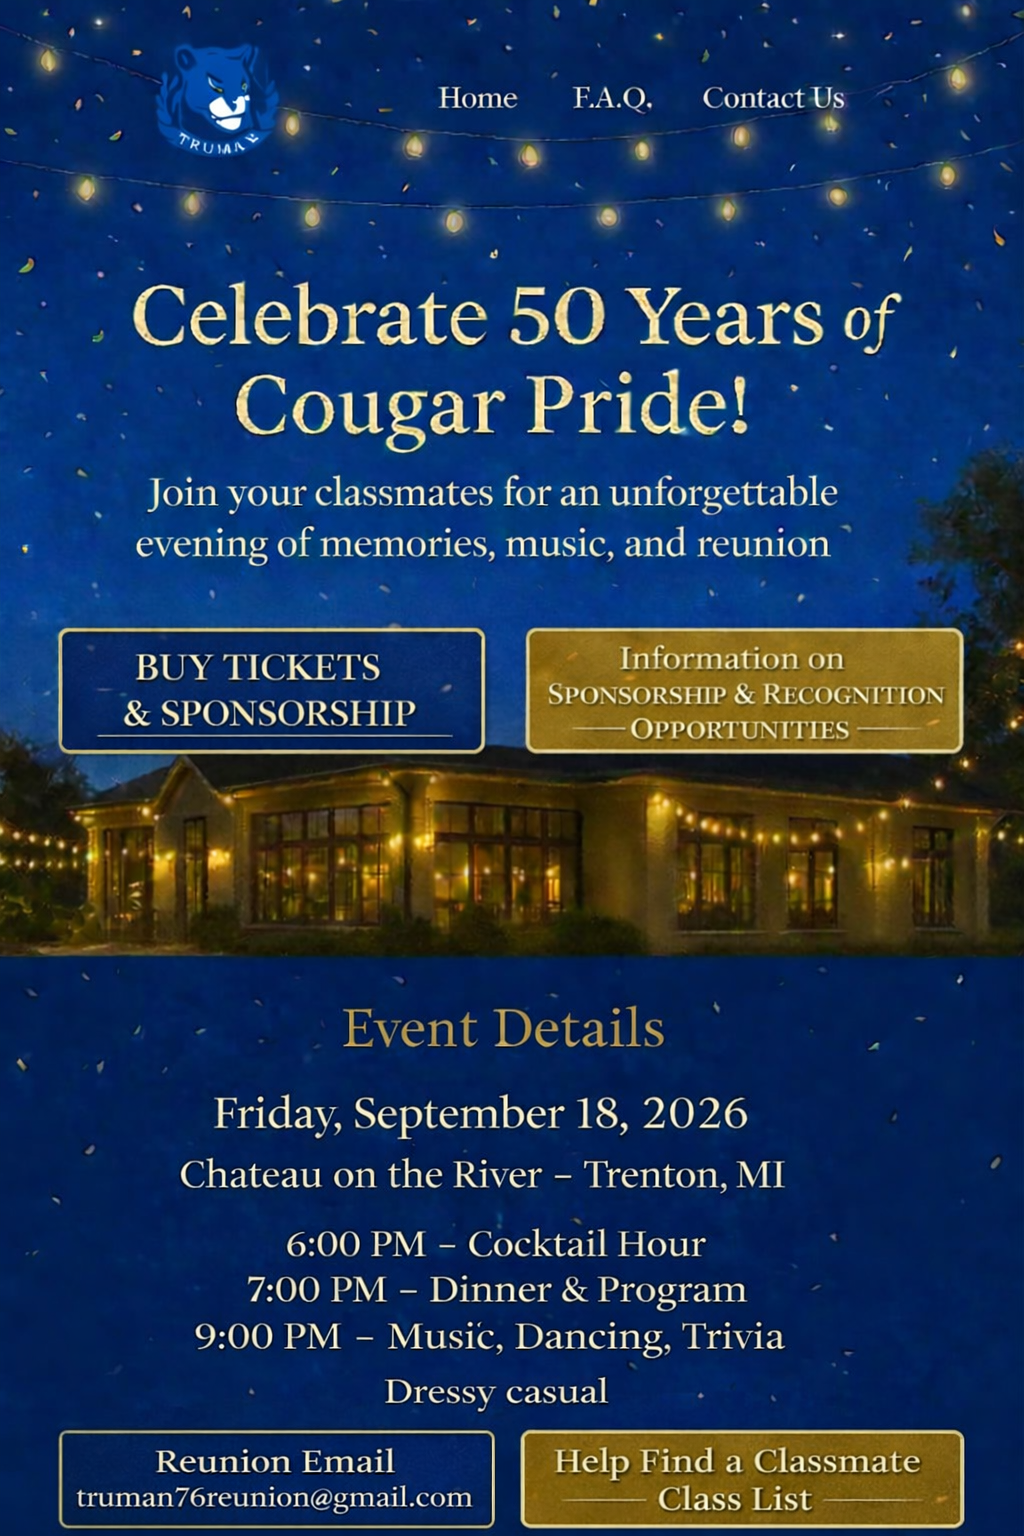
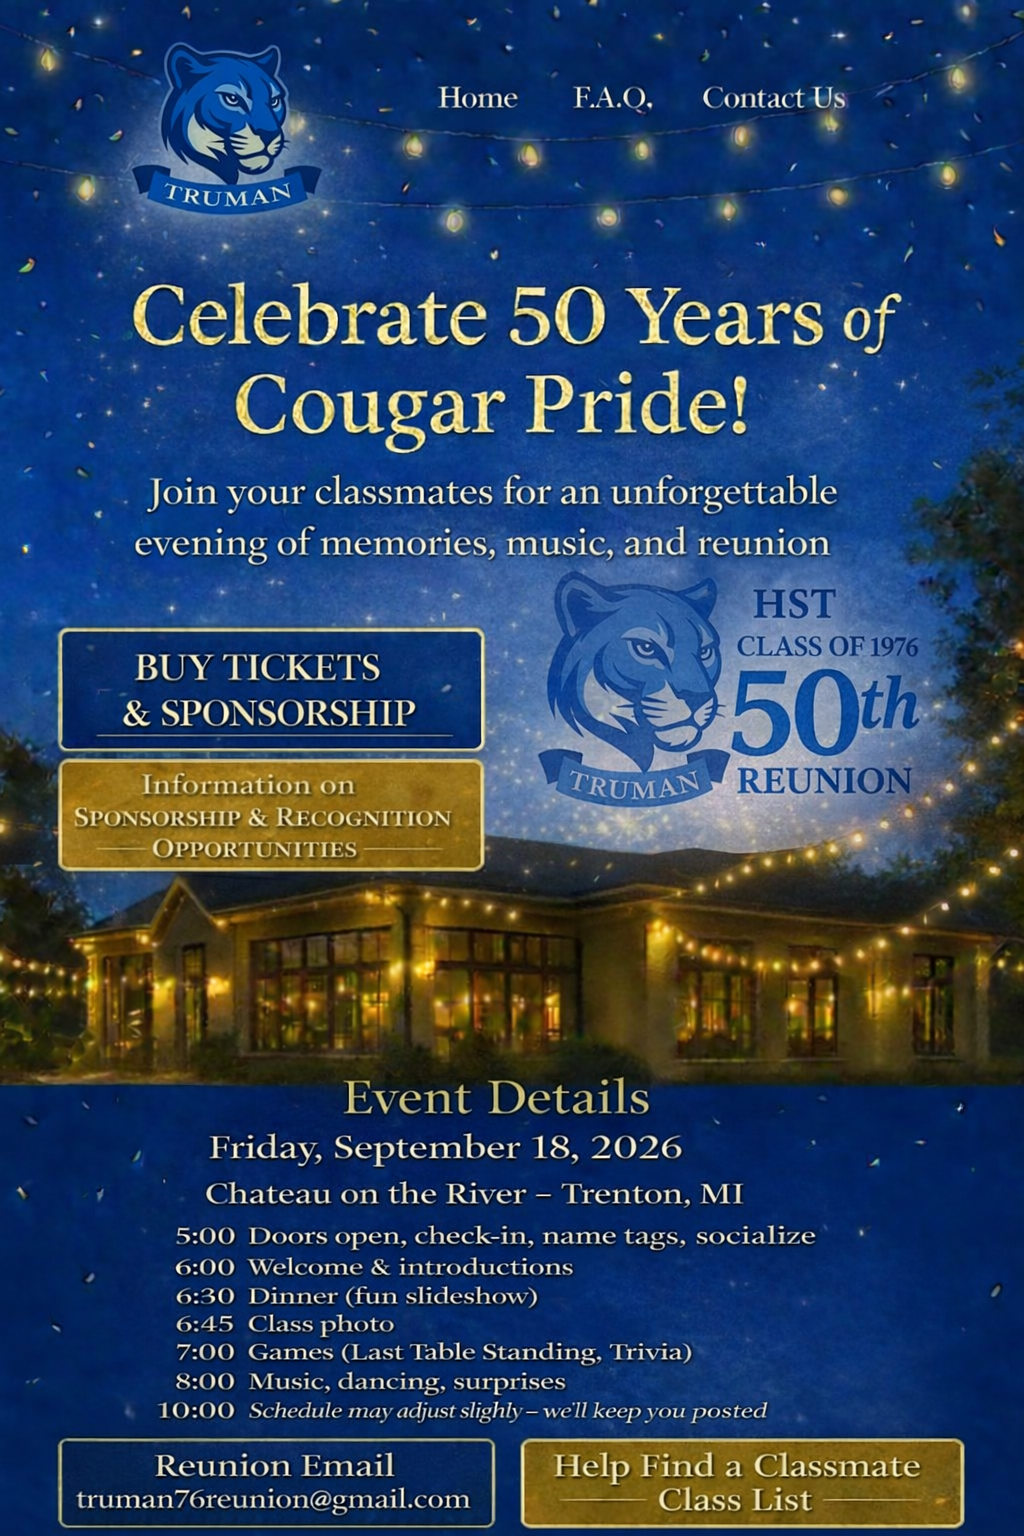
new layout update

diff --git a/index.html b/index.html
@@ -3,16 +3,16 @@
     <head>
     <meta charset="UTF-8">
         <title>Truman 76 Reunion</title>
-        <link rel="stylesheet", href="data/file/style.css">
+        <link rel="stylesheet" href="data/file/style.css">
     </head>
 
     <body>
         <div class="bg-image">
             <a href="data/file/FAQ.pdf" class="faq-link" target="_blank" rel="noopener noreferrer" title="FAQ"></a>
-            <a href="mailto:truman76reunion6@gmail.com" class="contact-link" target="_blank" rel="noopener noreferrer" title="Email"></a>
+            <a href="mailto:truman76reunion@gmail.com" class="contact-link" target="_blank" rel="noopener noreferrer" title="Email"></a>
             <a href="https://taylortrumanclassof197650thhig.ticketspice.com/httpstruman76reunionorg" class="ticket-link" target="_blank" rel="noopener noreferrer" title="Tickets"></a>
             <a href="data/file/Sponsor.pdf" class="sponser-link" target="_blank" rel="noopener noreferrer" title="Sponser"></a>
-            <a href="mailto:truman76reunion6@gmail.com" class="contact2-link" target="_blank" rel="noopener noreferrer" title="Email"></a>
+            <a href="mailto:truman76reunion@gmail.com" class="contact2-link" target="_blank" rel="noopener noreferrer" title="Email"></a>
             <a href="data/file/NotFoundList.pdf" class="classmate-link" target="_blank" rel="noopener noreferrer" title="Classmate"></a>
         </div>
     </body>

diff --git a/data/file/style.css b/data/file/style.css
@@ -3,7 +3,8 @@ background-color: black;
 }
 
 .bg-image{
-    background-image: url('../img/Home.png'); /*add leading slash to filepath for local machine*/
+    background-image: url('../img/Home.png'); /*deployment path*/
+    /*background-image: url('/data/img/Home.png'); /*local path testing for dev*/
     background-size: contain;
     background-attachment: scroll;
     background-repeat: no-repeat;
@@ -51,7 +52,7 @@ background-color: black;
     top: 750px;
     left: 410px;
     width: 515px;
-    height: 180px;
+    height: 150px;
     background-color: transparent;
     cursor: pointer;
     text-indent: -9999px;
@@ -60,10 +61,10 @@ background-color: black;
 
 .sponser-link{
     position: absolute;
-    top: 750px;
-    left: 965px;
-    width: 525px;
-    height: 180px;
+    top: 905px;
+    left: 410px;
+    width: 515px;
+    height: 150px;
     background-color: transparent;
     cursor: pointer;
     text-indent: -9999px;
@@ -92,8 +93,4 @@ background-color: black;
     cursor: pointer;
     text-indent: -9999px;
     overflow: hidden;
-
 }
-
-
-
